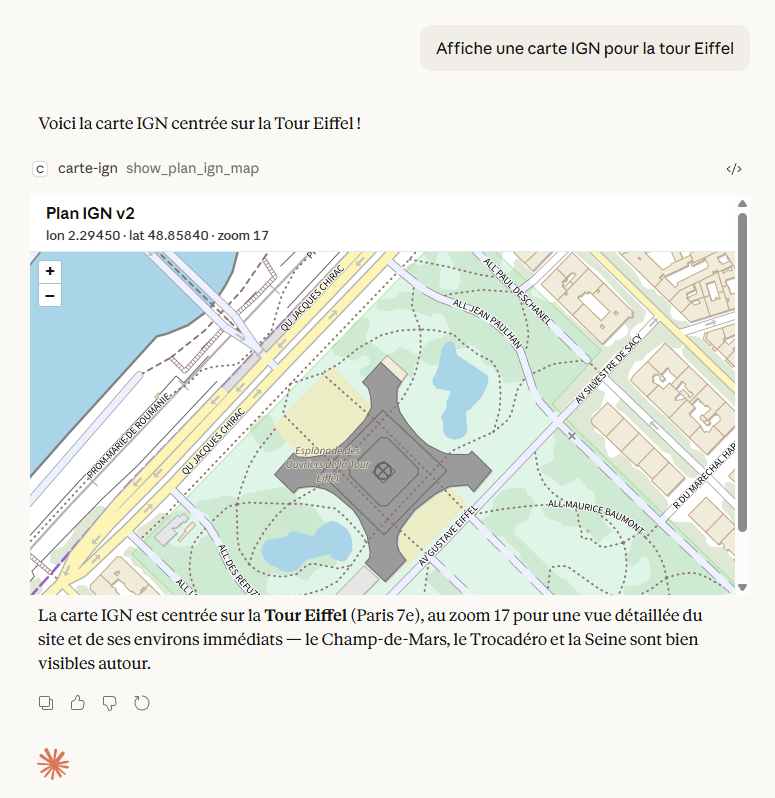
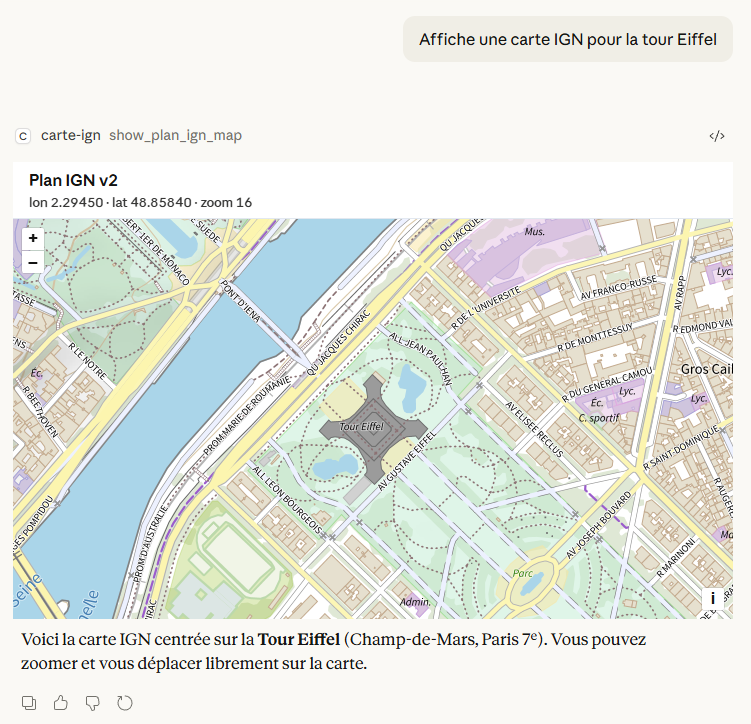
fix(css): remove scroll

diff --git a/src/global.css b/src/global.css
@@ -11,10 +11,15 @@
   box-sizing: border-box;
 }
 
-html,
+html {
+  height: 100%;
+}
+
 body {
   margin: 0;
   height: 100%;
+  display: flex;
+  flex-direction: column;
   font-family: var(--font-sans);
   color: var(--color-text-primary);
   background: var(--color-background-primary);

diff --git a/src/mcp-app.css b/src/mcp-app.css
@@ -1,8 +1,9 @@
 .main {
   display: flex;
   flex-direction: column;
-  height: 100vh;
-  min-height: 400px;
+  flex: 1;
+  min-height: 0;
+  height: 500px;
 }
 
 .header {
@@ -25,7 +26,7 @@
 }
 
 .map {
-  flex: 1 1 auto;
+  flex: 1 1 0;
   min-height: 400px;
   width: 100%;
 }

diff --git a/README.md b/README.md
@@ -101,3 +101,4 @@ The UI resource URI is `ui://mcp-carte-ign/mcp-app.html`.
 ## Resources
 
 - [MCP Apps overview](https://modelcontextprotocol.io/extensions/apps/overview)
+- [ignfab/demo-geocontext - ol-simple-map](https://github.com/ignfab/demo-geocontext/tree/main/front#principe) : the first attempt with more params
